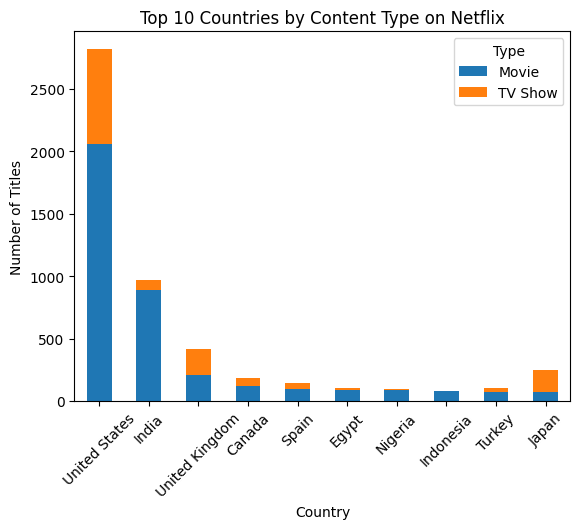
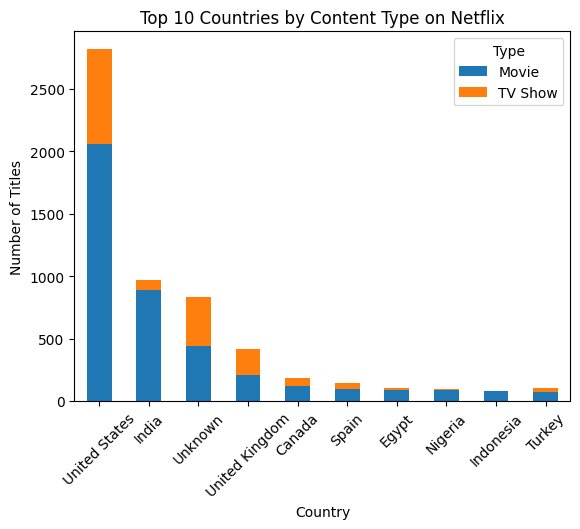
Added data preprocessing and outlier filtering

diff --git a/practice.py b/practice.py
@@ -7,12 +7,37 @@ import seaborn as sns
 if not os.path.exists("graphs"):
     os.makedirs("graphs")
 
-# Load the dataset
-file_path = r"D:\다운로드\datasets\datasets\netflix_data.csv"  # Update as needed
+# Load dataset
+file_path = "D:/다운로드/datasets/datasets/netflix_data.csv"
 df = pd.read_csv(file_path)
 
-# Convert date_added to datetime format
+### 1⃣ Data Preprocessing (결측값 처리 및 기초 통계 분석) ###
+
+# Check for missing values
+missing_values = df.isnull().sum().sort_values(ascending=False)
+missing_values = missing_values[missing_values > 0]  # Only show columns with missing values
+
+# Save missing values plot
+plt.figure(figsize=(10, 5))
+missing_values.plot(kind="bar", color="red", alpha=0.8)
+plt.title("Missing Values per Column")
+plt.xlabel("Columns")
+plt.ylabel("Count of Missing Values")
+plt.xticks(rotation=45)
+plt.savefig("graphs/missing_values.png", bbox_inches="tight")
+plt.close()
+
+# Fill missing values with appropriate defaults
 df["date_added"] = pd.to_datetime(df["date_added"], errors="coerce")
+df["date_added"].fillna(pd.Timestamp("2000-01-01"), inplace=True)
+
+df = df.assign(
+    rating=df["rating"].fillna("Unknown"),
+    country=df["country"].fillna("Unknown"),
+    cast=df["cast"].fillna(""),
+    director=df["director"].fillna(""),
+    listed_in=df["listed_in"].fillna("")
+)
 
 # Extract year and month from date_added
 df["month_added"] = df["date_added"].dt.month
@@ -21,13 +46,21 @@ df["year_added"] = df["date_added"].dt.year
 # Convert release_year to numeric
 df["release_year"] = pd.to_numeric(df["release_year"], errors="coerce")
 
+# Summary statistics for numerical columns
+numeric_summary = df.describe()
+numeric_summary.to_csv("graphs/numeric_summary.csv")
+
+# Save numeric summary visualization
+plt.figure(figsize=(10, 5))
+sns.boxplot(data=df[["release_year"]].dropna())
+plt.title("Distribution of Release Years")
+plt.savefig("graphs/numeric_summary.png", bbox_inches="tight")
+plt.close()
+
 # Extract main genre from listed_in
 df["main_genre"] = df["listed_in"].apply(lambda x: x.split(",")[0] if isinstance(x, str) else x)
 
-# Ensure ratings are strings
-df["rating"] = df["rating"].astype(str)
-
-### 1⃣ Netflix Content Distribution by Country ###
+### 2⃣ Netflix Content Distribution by Country ###
 content_by_country = df.groupby(["country", "type"]).size().unstack().fillna(0)
 content_by_country.sort_values(by="Movie", ascending=False, inplace=True)
 
@@ -38,10 +71,10 @@ plt.xlabel("Country")
 plt.ylabel("Number of Titles")
 plt.legend(title="Type")
 plt.xticks(rotation=45)
-plt.savefig("graphs/country_content.png", bbox_inches="tight")  # Save image
+plt.savefig("graphs/country_content.png", bbox_inches="tight")  
 plt.close()
 
-### 2⃣ Trends in Movie Releases Over Time ###
+### 3⃣ Trends in Movie Releases Over Time ###
 movies_per_year = df[df["type"] == "Movie"].groupby("release_year").size()
 
 plt.figure(figsize=(12, 6))
@@ -53,7 +86,7 @@ plt.grid(True)
 plt.savefig("graphs/movies_per_year.png", bbox_inches="tight")
 plt.close()
 
-### 3⃣ Comparison Between TV Shows and Movies ###
+### 4⃣ Comparison Between TV Shows and Movies ###
 type_counts = df["type"].value_counts()
 
 plt.figure(figsize=(6, 6))
@@ -63,7 +96,7 @@ plt.ylabel("")
 plt.savefig("graphs/movies_vs_tvshows.png", bbox_inches="tight")
 plt.close()
 
-### 4⃣ Best Time to Launch a TV Show (Based on Release Month) ###
+### 5⃣ Best Time to Launch a TV Show (Based on Release Month) ###
 tv_shows_monthly = df[df["type"] == "TV Show"].groupby("month_added").size()
 
 # Ensure all months (1-12) are represented
@@ -77,4 +110,62 @@ plt.xlabel("Month")
 plt.ylabel("Number of TV Shows Added")
 plt.xticks(range(12), ["Jan", "Feb", "Mar", "Apr", "May", "Jun", "Jul", "Aug", "Sep", "Oct", "Nov", "Dec"], rotation=45)
 plt.savefig("graphs/best_tv_show_month.png", bbox_inches="tight")
+plt.close()
+
+### 6⃣ Most Featured Actors (Filtered) ###
+actor_counts = df["cast"].str.split(", ").explode().value_counts()
+
+# Remove extreme values (actors appearing in more than 100 titles)
+actor_counts = actor_counts[actor_counts.between(1, 100)]
+
+top_actors = actor_counts.head(10)
+
+plt.figure(figsize=(12, 6))
+top_actors.plot(kind="bar", color="teal")
+plt.title("Top 10 Most Featured Actors on Netflix (Filtered)")
+plt.xlabel("Actor")
+plt.ylabel("Number of Titles")
+plt.xticks(rotation=45)
+plt.savefig("graphs/top_actors_filtered.png", bbox_inches="tight")
+plt.close()
+
+### 7⃣ Most Featured Directors (Filtered) ###
+director_counts = df["director"].str.split(", ").explode().value_counts()
+
+# Remove extreme values (directors appearing in more than 100 titles)
+director_counts = director_counts[director_counts.between(1, 100)]
+
+top_directors = director_counts.head(10)
+
+plt.figure(figsize=(12, 6))
+top_directors.plot(kind="bar", color="orange")
+plt.title("Top 10 Most Featured Directors on Netflix (Filtered)")
+plt.xlabel("Director")
+plt.ylabel("Number of Titles")
+plt.xticks(rotation=45)
+plt.savefig("graphs/top_directors_filtered.png", bbox_inches="tight")
+plt.close()
+
+### 8⃣ Seasonal Trends in Content Release ###
+seasonal_trends = df.groupby("month_added").size()
+
+plt.figure(figsize=(12, 6))
+seasonal_trends.plot(kind="bar", color="purple", alpha=0.8)
+plt.title("Seasonal Trends in Content Release")
+plt.xlabel("Month")
+plt.ylabel("Number of Titles Added")
+plt.xticks(rotation=45)
+plt.savefig("graphs/seasonal_trends.png", bbox_inches="tight")
+plt.close()
+
+### 🔟 Top 10 Countries by Total Netflix Content ###
+top_countries = df["country"].value_counts().head(10)
+
+plt.figure(figsize=(12, 6))
+top_countries.plot(kind="bar", color="green", alpha=0.8)
+plt.title("Top 10 Countries by Number of Titles on Netflix")
+plt.xlabel("Country")
+plt.ylabel("Number of Titles")
+plt.xticks(rotation=45)
+plt.savefig("graphs/top_countries.png", bbox_inches="tight")
 plt.close()
